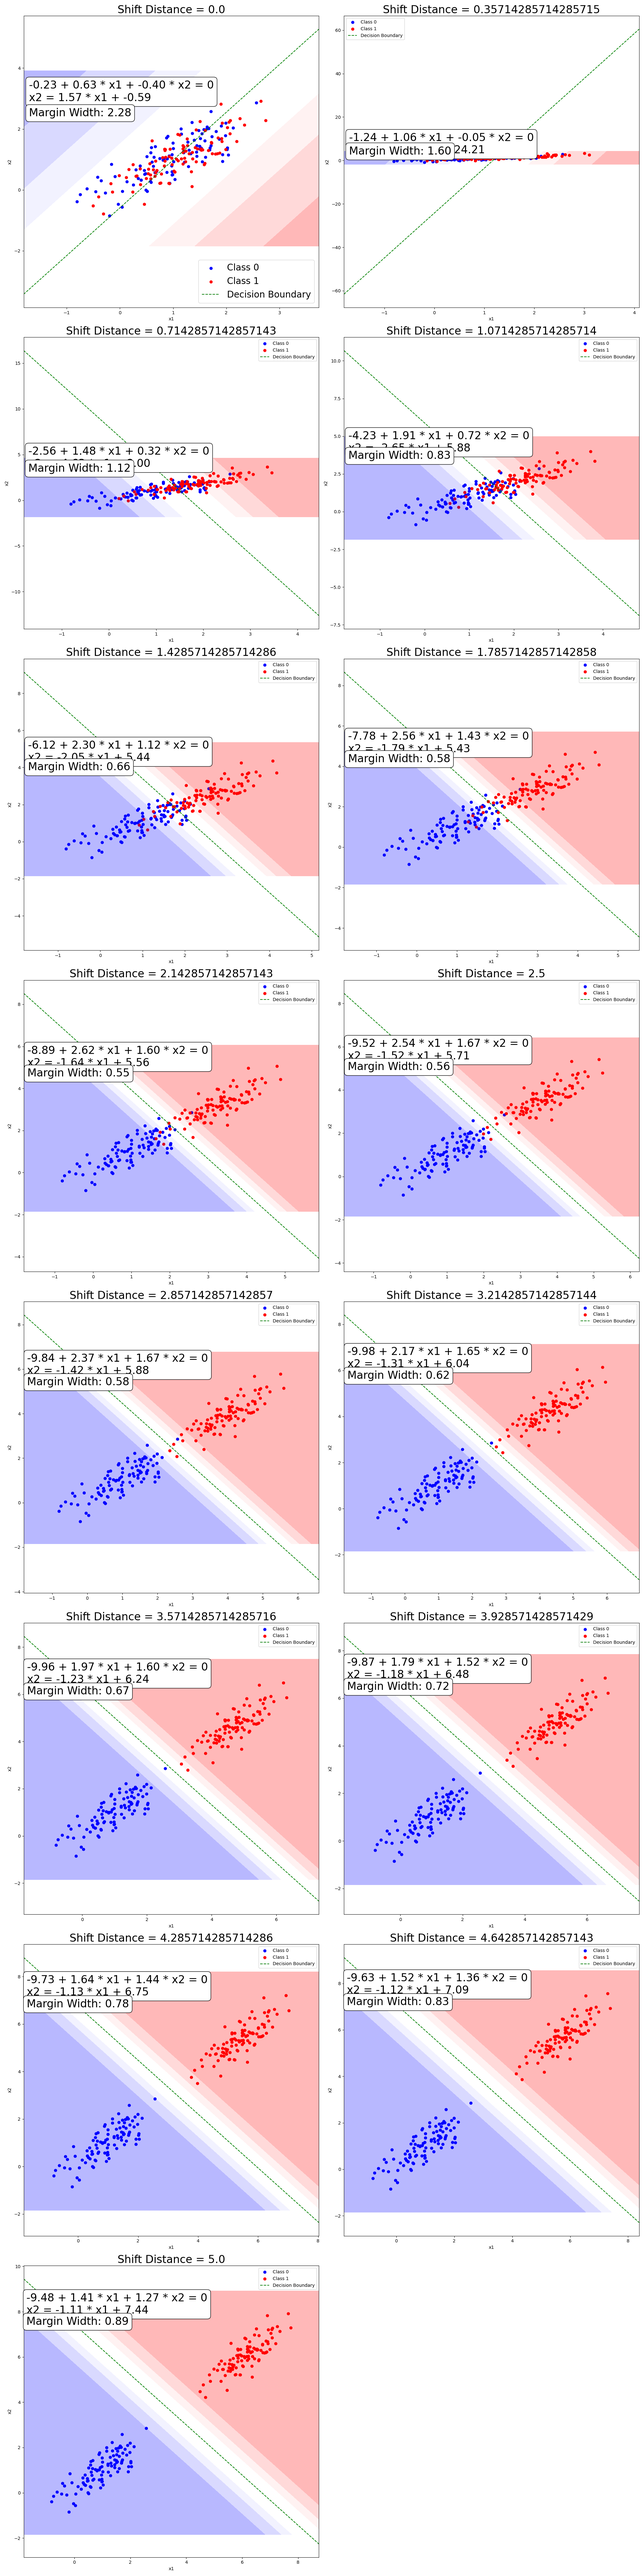
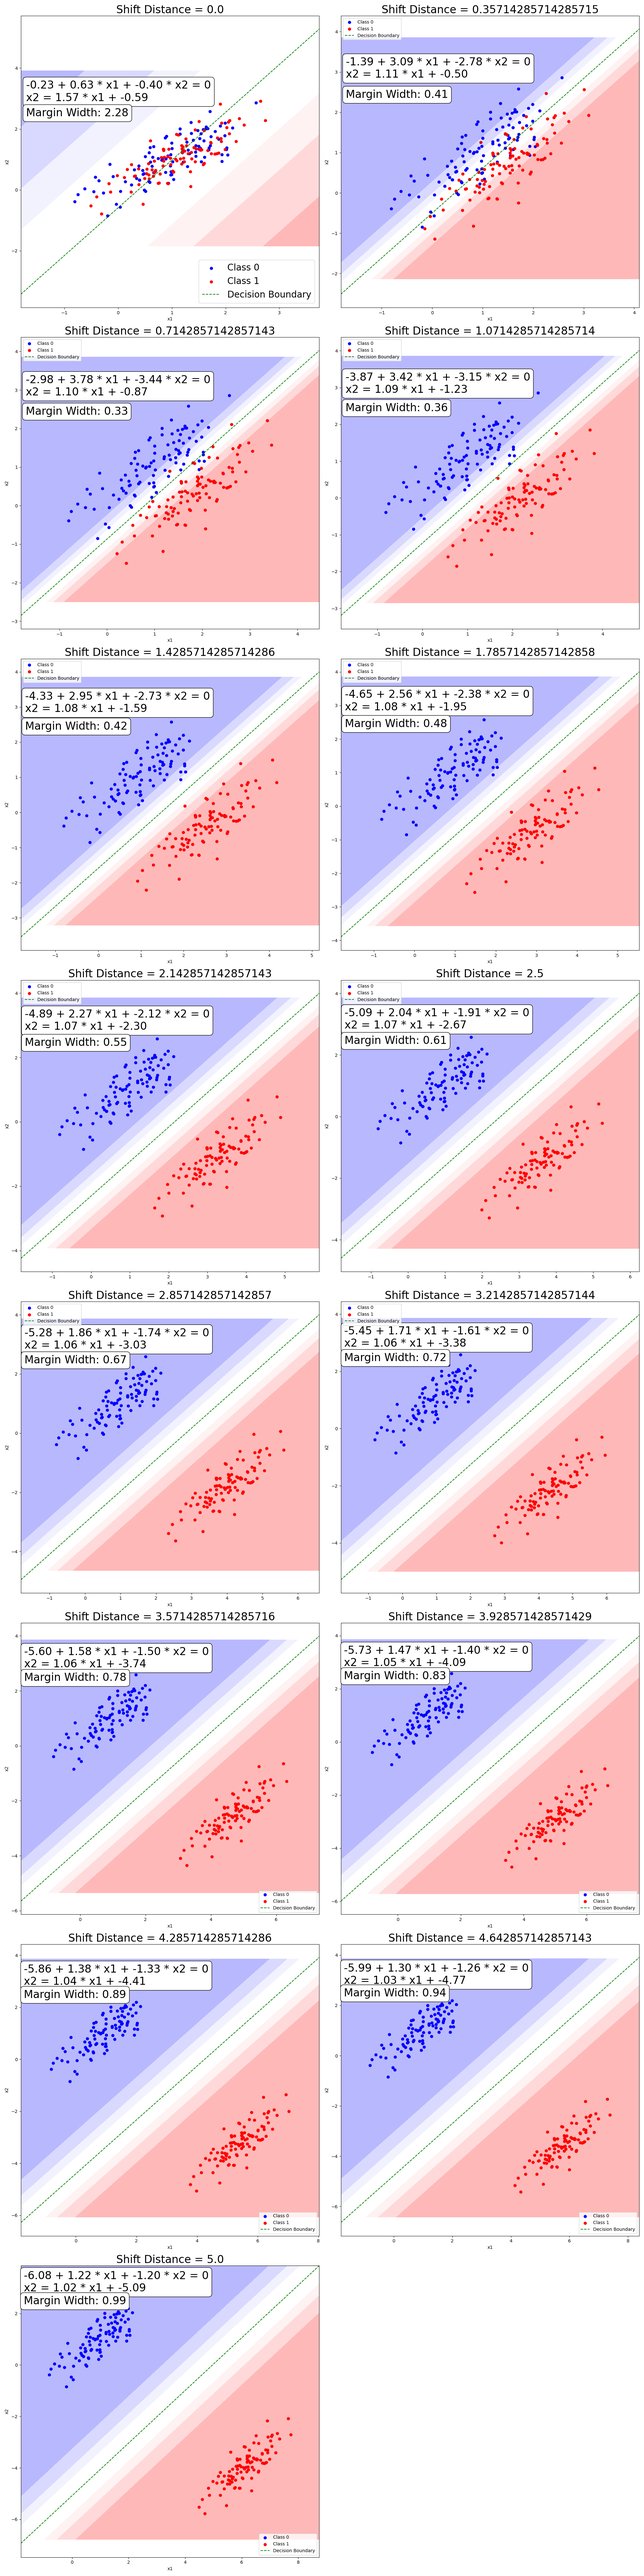
modified logistic_regression.py?

diff --git a/logistic_regression.py b/logistic_regression.py
@@ -21,7 +21,7 @@ def generate_ellipsoid_clusters(distance, n_samples=100, cluster_std=0.5):
     X2 = np.random.multivariate_normal(mean=[1, 1], cov=covariance_matrix, size=n_samples)
     
     # Implement: Shift the second cluster along the x-axis and y-axis for a given distance
-    X2 += [distance, distance]
+    X2 += [distance, -1*distance]
     #raise NotImplementedError("Implement the shift of the second cluster")
     y2 = np.ones(n_samples)
 
@@ -145,7 +145,7 @@ def do_experiments(start, end, step_num):
 
     # Plot slope (beta1 / beta2)
     plt.subplot(3, 3, 4)
-    slope_values = [b1 / b2 for b1, b2 in zip(beta1_list, beta2_list)]
+    slope_values = [-(b1 / b2) for b1, b2 in zip(beta1_list, beta2_list)]
     plt.plot(shift_distances, slope_values, marker='o')
     plt.title("Shift Distance vs Slope (Beta1 / Beta2)")
     plt.xlabel("Shift Distance")
@@ -158,7 +158,7 @@ def do_experiments(start, end, step_num):
 
     # Plot intercept ratio (beta0 / beta2)
     plt.subplot(3, 3, 5)
-    intercept_values = [b0 / b2 for b0, b2 in zip(beta0_list, beta2_list)]
+    intercept_values = [-(b0 / b2) for b0, b2 in zip(beta0_list, beta2_list)]
     plt.plot(shift_distances, intercept_values, marker='o')
     plt.title("Shift Distance vs Intercept Ratio (Beta0 / Beta2)")
     plt.xlabel("Shift Distance")

diff --git a/app.py b/app.py
@@ -1,6 +1,6 @@
 from flask import Flask, render_template, request, jsonify, send_from_directory
 import os
-#from logistic_regression_solution import do_experiments
+#nfrom logistic_regression_solution import do_experiments
 from logistic_regression import do_experiments
 
 app = Flask(__name__)
